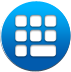
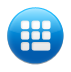
表情按钮

diff --git a/richchat/RichChatVC.m b/richchat/RichChatVC.m
@@ -126,9 +126,11 @@
     
     //表情按钮
     UIImage * imgFace=[UIImage imageNamed:@"happy"];
+    UIImage * imgText=[UIImage imageNamed:@"text"];
     UIButton * btnFace=[UIButton buttonWithType:UIButtonTypeCustom];
     btnFace.frame=CGRectMake(INPUT_SINGLE_LINE_HEIGHT, _tvInput.frame.origin.y, imgFace.size.width,imgFace.size.height);
     [btnFace setBackgroundImage:imgFace forState:UIControlStateNormal];
+    [btnFace setBackgroundImage:imgText forState:UIControlStateSelected];
     [btnFace addTarget:self action:@selector(onClickFace:) forControlEvents:UIControlEventTouchUpInside];
     _btnFace = btnFace;
     [ivBg addSubview:btnFace];
@@ -158,11 +160,11 @@
     
     //voice/text按钮
     UIImage * imgVoice=[UIImage imageNamed:@"voice"];
-    UIImage * imgText=[UIImage imageNamed:@"text"];
+    UIImage * imgTextBlue=[UIImage imageNamed:@"txt_blue"];
     UIButton * btnVoice=[UIButton buttonWithType:UIButtonTypeCustom];
     btnVoice.frame=CGRectMake(ivBg.frame.size.width-INPUT_SINGLE_LINE_HEIGHT, _tvInput.frame.origin.y, imgVoice.size.width,imgVoice.size.height);
     [btnVoice setBackgroundImage:imgVoice forState:UIControlStateNormal];
-    [btnVoice setBackgroundImage:imgText forState:UIControlStateSelected];
+    [btnVoice setBackgroundImage:imgTextBlue forState:UIControlStateSelected];
     [btnVoice addTarget:self action:@selector(onClickBtnVoiceText:) forControlEvents:UIControlEventTouchUpInside];
     _btnVoice = btnVoice;
     [ivBg addSubview:btnVoice];
@@ -187,20 +189,20 @@
     [btnTalk addTarget:self action:@selector(onTalkTouchUpInside:) forControlEvents:UIControlEventTouchUpInside];
     
     //move up to cancel
-    UIButton * lab=[UIButton buttonWithType:UIButtonTypeCustom];
-    lab.frame=CGRectMake(0, 0, 100, 120);
-    lab.center=CGPointMake(self.view.center.x, self.view.center.y-50);
-    lab.backgroundColor=[UIColor colorWithWhite:0 alpha:0.5];
-    [lab setImage:[UIImage imageNamed:@"mic_black"] forState:UIControlStateNormal];
-    [lab setImage:[UIImage imageNamed:@"trash_black"] forState:UIControlStateSelected];
-    [self.view addSubview:lab];
-    _btnCancel=lab;
+    UIButton * btnCancelImg=[UIButton buttonWithType:UIButtonTypeCustom];
+    btnCancelImg.frame=CGRectMake(0, 0, 100, 120);
+    btnCancelImg.center=CGPointMake(self.view.center.x, self.view.center.y-50);
+    btnCancelImg.backgroundColor=[UIColor colorWithWhite:0 alpha:0.5];
+    [btnCancelImg setImage:[UIImage imageNamed:@"mic_black"] forState:UIControlStateNormal];
+    [btnCancelImg setImage:[UIImage imageNamed:@"trash_black"] forState:UIControlStateSelected];
+    [self.view addSubview:btnCancelImg];
+    _btnCancel=btnCancelImg;
     _btnCancel.hidden=YES;
+    
 
     //手势
     UIPanGestureRecognizer * pan=[[UIPanGestureRecognizer alloc]initWithTarget:self action:@selector(handlePanGesture:)];
     [_btnTalk addGestureRecognizer:pan];
-//    lab.userInteractionEnabled=YES;
     [pan release];
     
     //监听键盘高度的变换
@@ -246,7 +248,7 @@
      Reduce the size of the text view so that it's not obscured by the keyboard.
      Animate the resize so that it's in sync with the appearance of the keyboard.
      */
-    
+    _btnFace.selected=NO;
     NSDictionary *userInfo = [notification userInfo];
     
     // Get the origin of the keyboard when it's displayed.
@@ -267,7 +269,6 @@
 
 
 - (void)keyboardWillHide:(NSNotification *)notification {
-    
     NSDictionary* userInfo = [notification userInfo];
     
     /*
@@ -278,7 +279,7 @@
     NSTimeInterval animationDuration;
     [animationDurationValue getValue:&animationDuration];
     
-    if (_isShowMood) {
+    if (_btnFace.selected) {
         //把键盘撤掉就行了，就不把编辑区域整体下移了
     }else{
         [self autoMovekeyBoard:0 duration:animationDuration];
@@ -409,17 +410,18 @@
 }
 -(void)onClickFace:(UIButton *)sender{
    
-    
     if (_tvInput.internalTextView.isFirstResponder) {
-        _isShowMood=YES;
+        _btnFace.selected=YES;
         [_tvInput resignFirstResponder];
     }else{
-        if (_isShowMood) {
-              [self autoMovekeyBoard:0 duration:0.3];
-            _isShowMood=NO;
+        if (_btnFace.selected) {
+//              [self autoMovekeyBoard:0 duration:0.3];
+            [_tvInput.internalTextView becomeFirstResponder];
+            _btnFace.selected=NO;
+            
         } else {
             [self autoMovekeyBoard:216 duration:0.3];
-             _isShowMood=YES;
+             _btnFace.selected=YES;
         }
         
     }
@@ -429,7 +431,7 @@
 }
 -(void)onUserSend
 {
-    _isShowMood=NO;
+    _btnFace.selected=NO;
     
 	NSString *messageStr = _tvInput.text;
     if (messageStr == nil || [[messageStr stringByTrimmingCharactersInSet:[NSCharacterSet whitespaceAndNewlineCharacterSet]]isEqualToString:@""])
